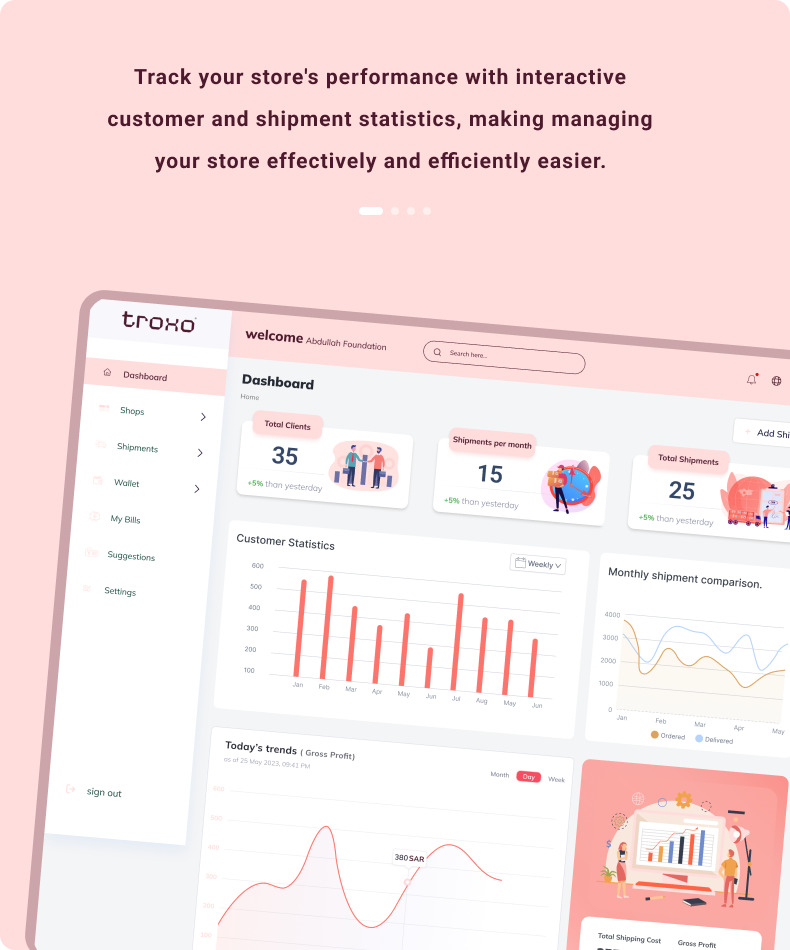
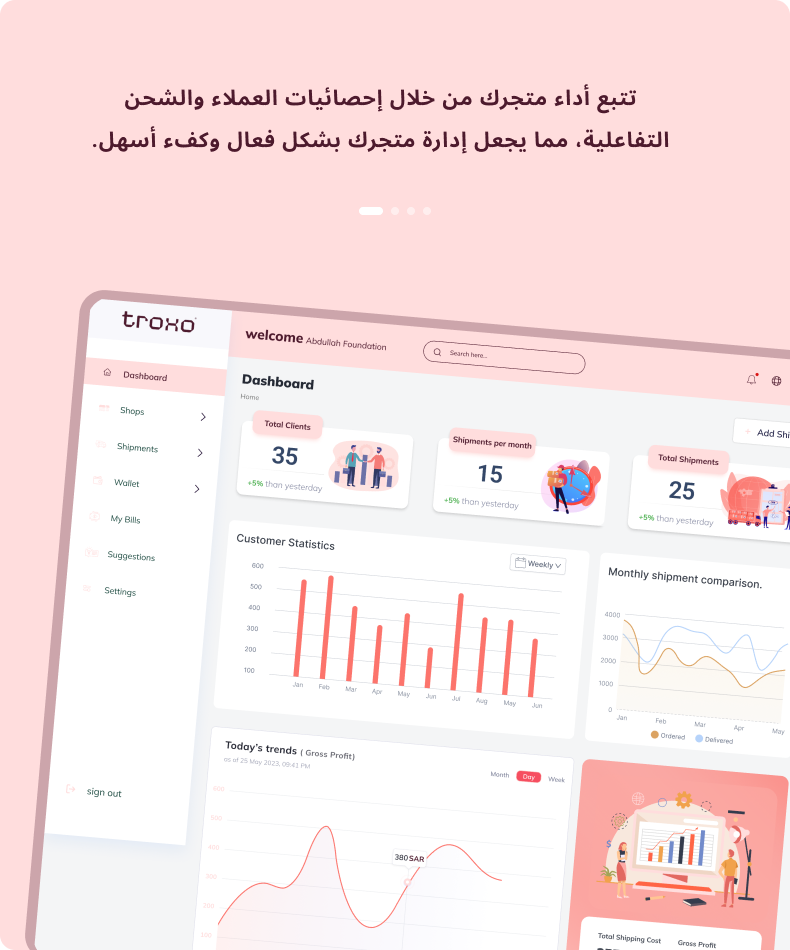
Change Language English to Arabic

Changed region(s): [[0.1215, 0.0611, 0.8506, 0.1832]]

diff --git a/src/Pages/PersonalSignUp.jsx b/src/Pages/PersonalSignUp.jsx
@@ -7,18 +7,18 @@ const PersonalSignUp = () => {
       <form className="mt-6 space-y-4">
         <input
           type="text"
-          placeholder="First Name"
-          className="w-full px-4 py-2 border rounded-lg focus:outline-none focus:ring-2 focus:ring-pink-500"
+          placeholder="اسم الاول"
+          className="w-full px-4 py-2 border rounded-lg text-right focus:outline-none focus:ring-2 focus:ring-pink-500"
         />
         <input
           type="text"
-          placeholder="Last Name"
-          className="w-full px-4 py-2 border rounded-lg focus:outline-none focus:ring-2 focus:ring-pink-500"
+          placeholder="اسم العائلة"
+          className="w-full px-4 py-2 border text-right rounded-lg focus:outline-none focus:ring-2 focus:ring-pink-500"
         />
         <input
           type="email"
-          placeholder="Email"
-          className="w-full px-4 py-2 border rounded-lg focus:outline-none focus:ring-2 focus:ring-pink-500"
+          placeholder="البريد الالكتروني"
+          className="w-full px-4 py-2 border text-right rounded-lg focus:outline-none focus:ring-2 focus:ring-pink-500"
         />
 
         <div className="flex items-center  ">
@@ -31,29 +31,29 @@ const PersonalSignUp = () => {
           </div>
 
           <input
-            type="text"
-            placeholder="5x xxx xxxx"
-            className="w-full focus:outline-none border rounded-lg px-4 py-2"
+            type="phone"
+            placeholder="xxxx xxx x5"
+            className="w-full focus:outline-none border text-right rounded-lg px-4 py-2"
           />
         </div>
 
         <input
           type="password"
-          placeholder="Password"
-          className="w-full px-4 py-2 border rounded-lg focus:outline-none focus:ring-2 focus:ring-pink-500"
+          placeholder="كلمة المرور"
+          className="w-full px-4 py-2 border text-right rounded-lg focus:outline-none focus:ring-2 focus:ring-pink-500"
         />
         <input
           type="password"
-          placeholder="Confirm Password"
-          className="w-full px-4 py-2 border rounded-lg focus:outline-none focus:ring-2 focus:ring-pink-500"
+          placeholder="تاكيد كلمة المرور"
+          className="w-full px-4 py-2 border text-right rounded-lg focus:outline-none focus:ring-2 focus:ring-pink-500"
         />
 
-        <div className="flex items-center space-x-2">
-          <input type="checkbox" id="terms" className="w-4 h-4" />
-          <label htmlFor="terms" className="text-gray-600 text-sm">
-            I agree with <span className="text-[#EE3F36]">Terms</span> and
-            <span className="text-[#EE3F36]">Privacy Policy</span>
+        <div className="flex justify-end items-right space-x-2 ">
+          <label htmlFor="terms" className="text-gray-600 text-sm text-right">
+            أوافق على <span className="text-[#EE3F36] text-right">الشروط</span>و
+            <span className="text-[#EE3F36] text-right">السياسة الخصوصية</span>
           </label>
+          <input type="checkbox" id="terms" className="w-4 h-4 " />
         </div>
 
         {/* Submit Button */}
@@ -63,7 +63,7 @@ const PersonalSignUp = () => {
             type="submit"
             className="w-full bg-[#FFDDDD] text-gray-900 py-2 rounded-lg hover:bg-pink-300 transition duration-300"
           >
-            Next Step
+            خطوة التالية
           </button>
         </NavLink>
       </form>

diff --git a/src/Pages/SignIn.jsx b/src/Pages/SignIn.jsx
@@ -25,52 +25,52 @@ const SignIn = () => {
           </div>
 
           {/* Title */}
-          <h2 className="text-2xl font-bold text-left text-gray-900">
-            Get Started Now
+          <h2 className="text-2xl font-bold text-right text-gray-900">
+            ابدأ الآن{" "}
           </h2>
-          <p className="text-gray-600 mt-2">
-            Please enter your information to access your account.
+          <p className="text-gray-600 text-right mt-2">
+            . يرجى إدخال معلوماتك للوصول إلى حسابك
           </p>
 
           {/* Form Fields */}
           <form className="mt-6 space-y-4">
             <input
               type="email"
-              placeholder="Enter your Email"
-              className="w-full px-4 py-2 border rounded-lg focus:outline-none focus:ring-2 focus:ring-pink-500"
+              placeholder="أدخل بريدك الإلكتروني"
+              className="w-full px-4 py-2 border text-right rounded-lg focus:outline-none focus:ring-2 focus:ring-pink-500"
             />
             <input
               type="password"
-              placeholder="Password"
-              className="w-full px-4 py-2 border rounded-lg focus:outline-none focus:ring-2 focus:ring-pink-500"
+              placeholder="ادخل كلمة المرور"
+              className="w-full px-4 py-2 border text-right rounded-lg focus:outline-none focus:ring-2 focus:ring-pink-500"
             />
             <NavLink
               to="/ForgotPassword"
-              className="text-sm text-[#B1B1B2] hover:text-pink-500"
+              className="text-sm text-[#B1B1B2] text-right hover:text-pink-500"
             >
-              Forgot Password?
+              نسيت كلمة المرور؟
             </NavLink>
             {/* Submit Button */}
             <button
               type="submit"
               className="w-full cursor-pointer mt-4 bg-[#FFDDDD]  py-2 rounded-lg hover:bg-pink-300 transition duration-300"
             >
-              Login
+              تسجيل الدخول
             </button>
           </form>
 
           {/* OR Divider */}
           <div className="flex items-center my-4">
             <div className="flex-1 border-t border-gray-300"></div>
-            <span className="px-2 text-gray-600">OR</span>
+            <span className="px-2 text-gray-600">أو</span>
             <div className="flex-1 border-t border-gray-300"></div>
           </div>
 
           {/* Sign Up Link */}
           <p className="text-center text-gray-600 mt-4">
-            Don&apos;t have an account?
+            لا تملك حسابًا؟
             <NavLink to="/" className=" hover:text-pink-600">
-              Signup Free!
+              سجل مجانا
             </NavLink>
           </p>
         </div>

diff --git a/src/Pages/BussinessSignUp.jsx b/src/Pages/BussinessSignUp.jsx
@@ -6,26 +6,26 @@ const BussinessSignUp = () => {
       {/* Form Fields */}
       <form className="mt-6 space-y-4">
         <select
-          className="w-full bg-transparent focus:outline-none px-4 py-2 text-gray-600 border rounded-lg pr-2"
+          className="w-full bg-transparent  focus:outline-none px-4 py-2 text-gray-600 border rounded-lg pr-2"
           placeholder="Entity Classification"
         >
-          <option value="Entity Classification">Entity Classification</option>
+          <option value="Entity Classification">تصنيف الكيان</option>
         </select>
         <input
           type="text"
-          placeholder="Commercial Registration Number"
-          className="w-full px-4 py-2 border rounded-lg focus:outline-none focus:ring-2 focus:ring-pink-500"
+          placeholder="رقم السجل التجاري"
+          className="w-full px-4 py-2 border text-right rounded-lg focus:outline-none focus:ring-2 focus:ring-pink-500"
         />
         <input
-          type="email"
-          placeholder="Tax Number"
-          className="w-full px-4 py-2 border rounded-lg focus:outline-none focus:ring-2 focus:ring-pink-500"
+          type="text"
+          placeholder="رقم الضريبة"
+          className="w-full px-4 py-2 border text-right rounded-lg focus:outline-none focus:ring-2 focus:ring-pink-500"
         />
 
         <div className="flex items-center  ">
           <div className="flex items-center mr-2">
             <input
-              type="email"
+              type="text"
               placeholder="http://"
               className="bg-transparent focus:outline-none px-4 py-2 text-gray-600 border rounded-lg pr-2"
             />
@@ -33,8 +33,8 @@ const BussinessSignUp = () => {
 
           <input
             type="text"
-            placeholder="Website Link"
-            className="w-full focus:outline-none border rounded-lg px-4 py-2"
+            placeholder="رابط الموقع"
+            className="w-full focus:outline-none text-right border rounded-lg px-4 py-2"
           />
         </div>
 
@@ -42,7 +42,7 @@ const BussinessSignUp = () => {
           className="w-full bg-transparent focus:outline-none px-4 py-2 text-gray-600 border rounded-lg pr-2"
           placeholder="Store Platform"
         >
-          <option value="Store Platform">Store Platform</option>
+          <option value="Store Platform">منصة المتجر</option>
         </select>
 
         <FileUpload />
@@ -51,7 +51,7 @@ const BussinessSignUp = () => {
           type="submit"
           className="w-full bg-[#FFDDDD] text-gray-900 py-2 rounded-lg hover:bg-pink-300 transition duration-300"
         >
-          Sign Up
+          انشاء حساب
         </button>
       </form>
     </>

diff --git a/src/Routers/TamplateSignUp.jsx b/src/Routers/TamplateSignUp.jsx
@@ -16,34 +16,30 @@ const TamplateSignUp = () => {
         <div className="w-full md:w-1/2 p-8">
           {/* Logo */}
           <div className="flex justify-start mb-6">
-            <img
-              src="/images/Logo.png"
-              alt="Logo"
-              className="w-32"
-            />
+            <img src="/images/Logo.png" alt="Logo" className="w-32" />
           </div>
 
           {/* Title */}
-          <h2 className="text-2xl font-bold text-left text-gray-900">
-            Sign Up to
+          <h2 className="text-2xl font-bold text-right text-gray-900">
+            انشاء حساب في
           </h2>
-          <p className="text-gray-600 text-center mt-2">
-            Please enter your information to access your account.
+          <p className="text-gray-600 text-right mt-2">
+            .يرجى إدخال معلوماتك للوصول إلى حسابك
           </p>
 
           <Outlet />
           {/* OR Divider */}
           <div className="flex items-center my-4">
             <div className="flex-1 border-t border-gray-300"></div>
-            <span className="px-2 text-gray-600">OR</span>
+            <span className="px-2 text-gray-600">أو</span>
             <div className="flex-1 border-t border-gray-300"></div>
           </div>
 
           {/* Already have an account */}
           <p className="text-center text-gray-600 mt-4">
-            Already have an account?
+            هل لديك حساب بالفعل؟
             <NavLink to="/signin" className="cursor-pointer">
-              Log In
+              تسجيل دخول
             </NavLink>
           </p>
         </div>

diff --git a/src/Components/FileUpload.jsx b/src/Components/FileUpload.jsx
@@ -42,16 +42,14 @@ const FileUpload = () => {
             alt="File Upload Icon"
             className="w-6"
           />
-          <p className="text-base font-semibold ">
-            Attach the commercial register
-          </p>
+          <p className="text-base font-semibold ">أرفق السجل التجاري </p>
         </div>
 
         <label
           htmlFor="file-upload"
           className=" cursor-pointer text-[#2a2a2ad3] mb-2"
         >
-          Drag And Drop File Here Or Click To Upload
+          اسحب وأفلت الملف هنا أو انقر لتحميله
         </label>
 
         <input
@@ -62,7 +60,7 @@ const FileUpload = () => {
         />
       </div>
       <p className="text-gray-500 text-sm text-center mt-2">
-        File size should not be more than 5MB
+        يجب ألا يتجاوز حجم الملف 5 ميغابايت{" "}
       </p>
       {file && (
         <div className="mt-4 p-4 bg-gray-100 rounded-lg">
